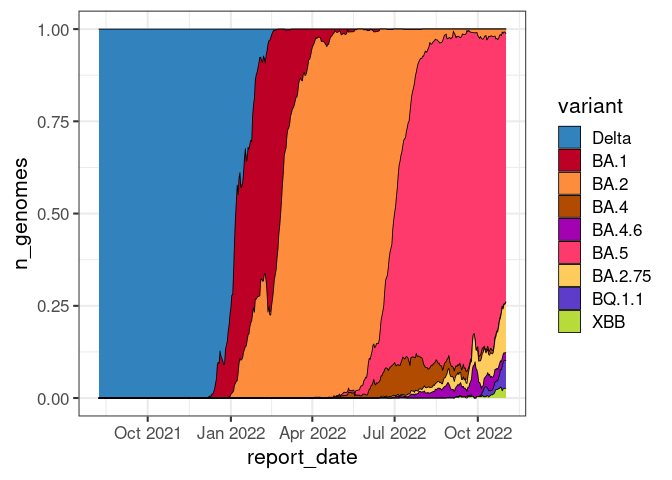
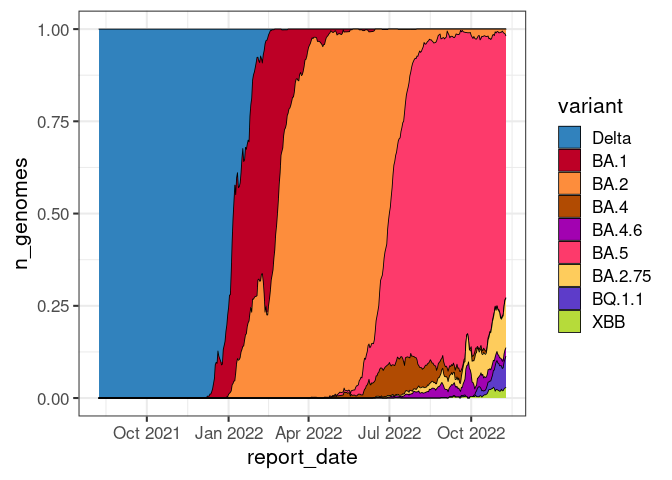
weekly updated

diff --git a/README.md b/README.md
@@ -28,7 +28,7 @@ voc$report_date <- ymd(voc$report_date)
 tidy_voc <- pivot_longer(voc, !report_date, names_to = "variant", values_to = "n_genomes")
 
 order_of_arrival <- c("Delta", "BA.1", "BA.2", "BA.5", "BA.4", "BA.2.75", "BA.4.6", 
-"BQ.1.1")
+"BQ.1.1", "XBB")
 
 tidy_voc$variant <- fct_relevel(tidy_voc$variant, order_of_arrival)
 
